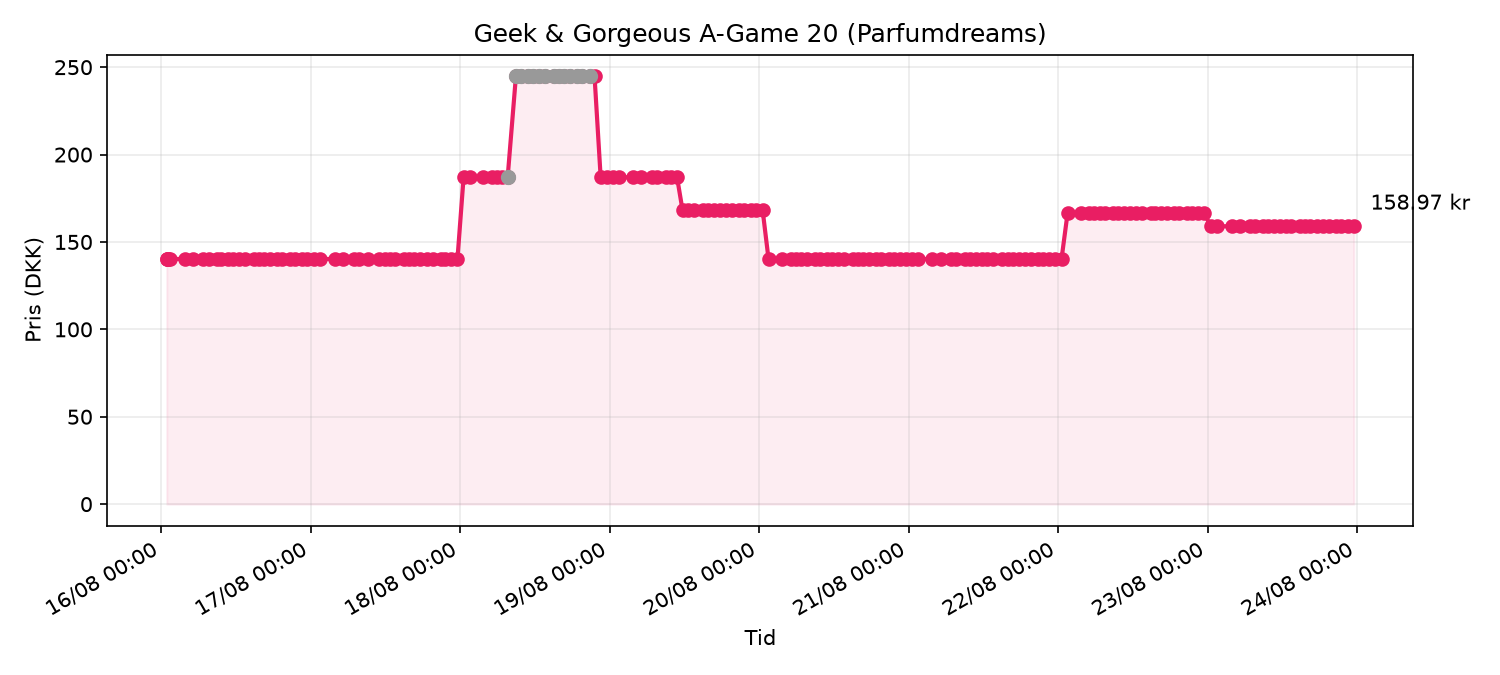
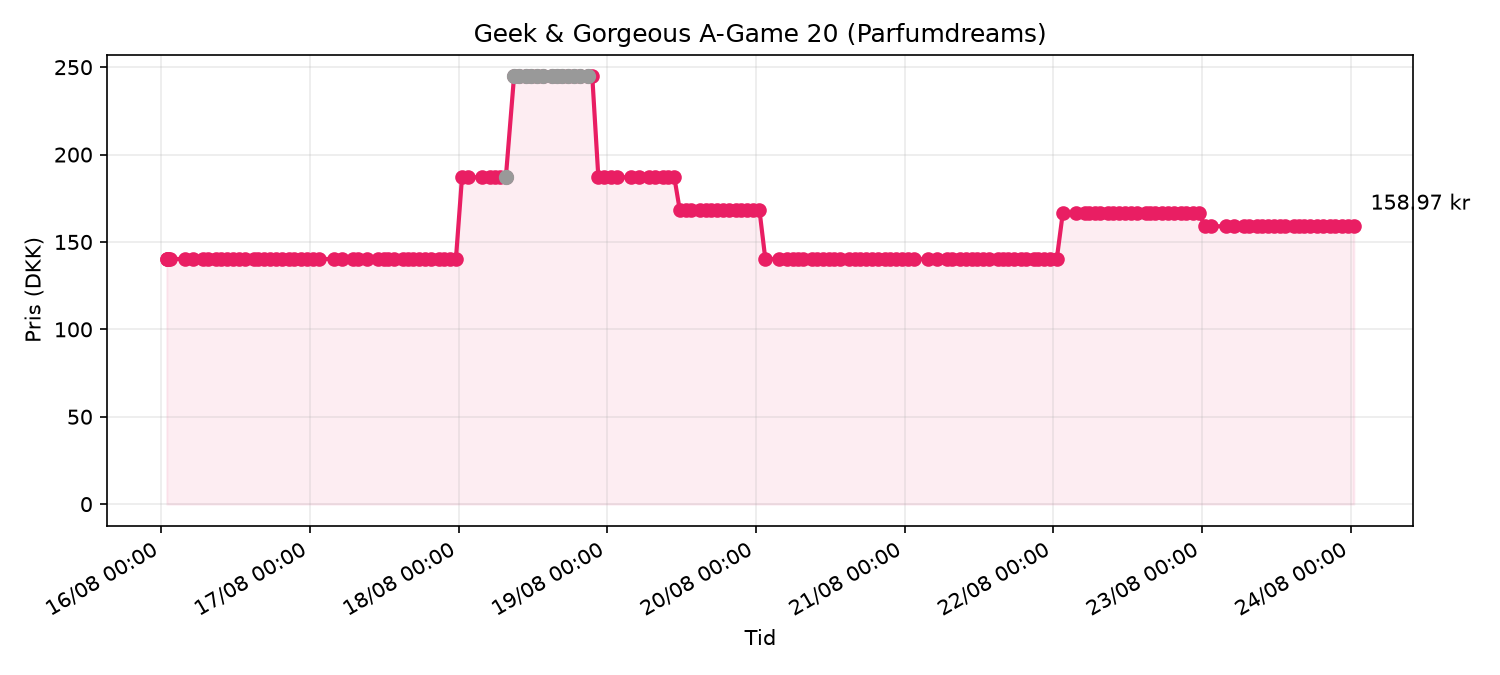
price check 2026-08-23T22:30Z

diff --git a/data/price_chart.html b/data/price_chart.html
@@ -13,7 +13,7 @@
 </head>
 <body>
   <h1>Geek & Gorgeous A-Game 20 (Parfumdreams)</h1>
-  <p class="meta">Senest tjekket: 23/08/2026 23:29 · Pris: <strong>158.97 kr</strong> · på lager</p>
+  <p class="meta">Senest tjekket: 24/08/2026 00:30 · Pris: <strong>158.97 kr</strong> · på lager</p>
   
   <p><a href="https://www.parfumdreams.dk/Geek-Gorgeous/Samlinger/101-aktive-stoffer/A-Game-20-Serum/index_137083.aspx?variation=221879">Åbn produkt på Parfumdreams</a></p>
   <img src="price_chart.png" alt="Prisgraf">
